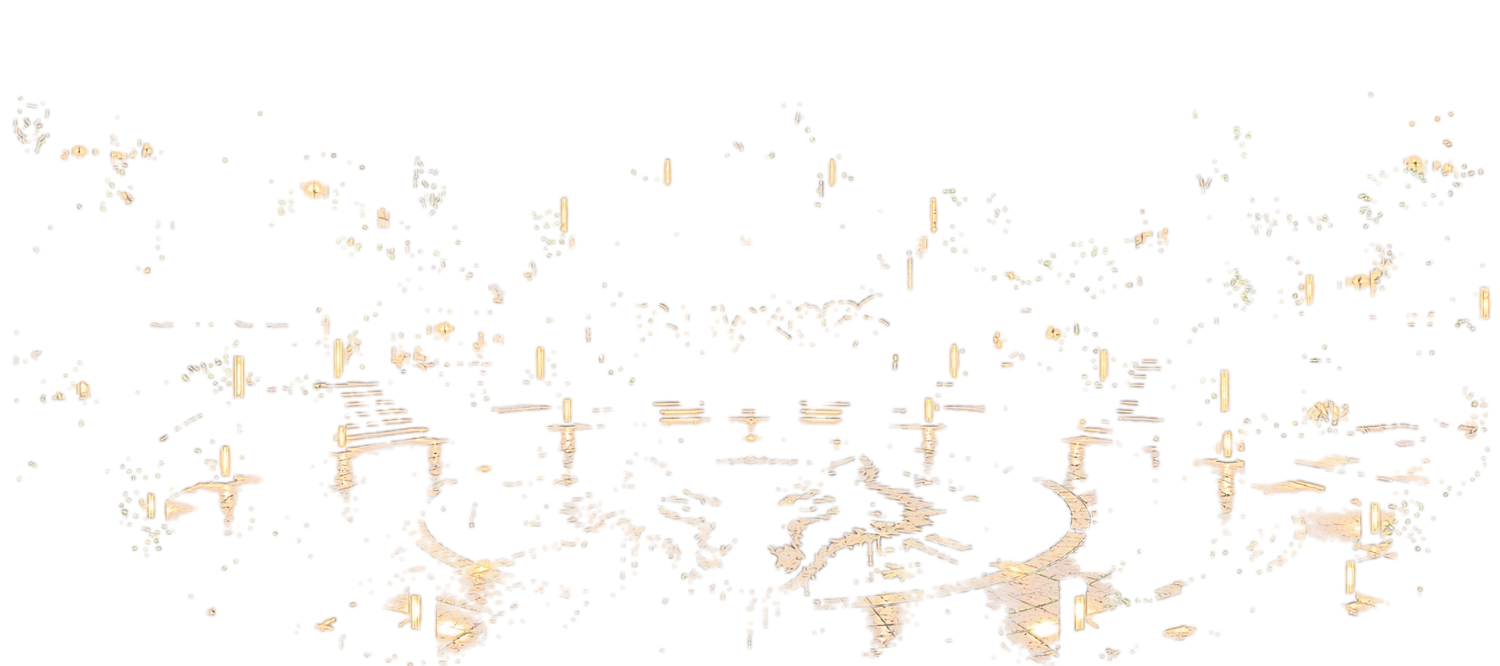
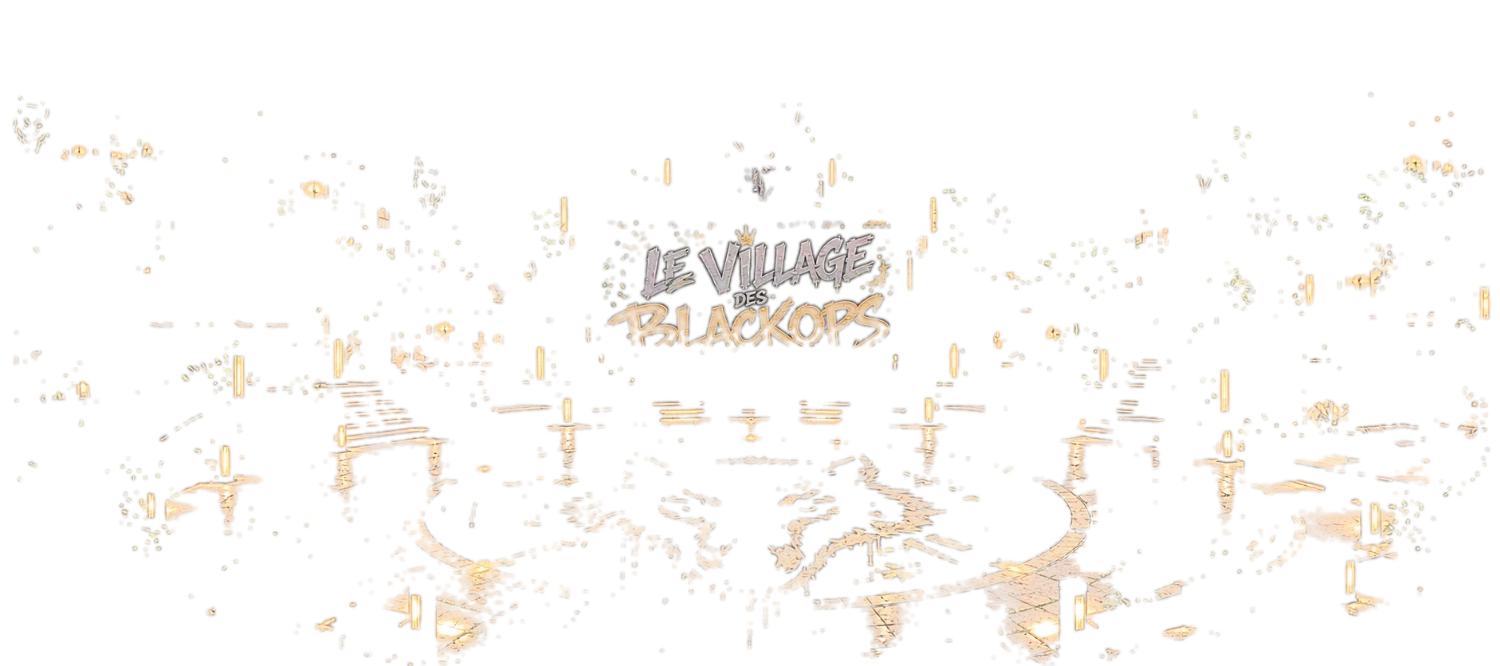
Nuit : l'enseigne « LE VILLAGE DES BLACKOPS » s'illumine (décor fourni et village dessiné), yeux du loup et lampes avec halo doré
Claude-Session: https://claude.ai/code/session_016QFmvqjMsiPwrgpkxjXLAF

Changed region(s): [[0.3987, 0.3303, 0.6133, 0.5405], [0.4907, 0.2402, 0.5213, 0.3003]]

diff --git a/public/style.css b/public/style.css
@@ -476,7 +476,7 @@ input[type='checkbox'] { width: 20px; height: 20px; accent-color: var(--gold-2);
 @keyframes heartUp { 0% { transform: translateY(0) scale(0.6); opacity: 0; } 15% { opacity: 1; } 100% { transform: translateY(-110vh) scale(1.2) rotate(20deg); opacity: 0; } }
 /* Décor fourni (photo / rendu déjà sombre) : nuit plus douce, lampes du décor bien visibles */
 .custom-decor .night { background: linear-gradient(180deg, #2b3670, #3b4c8f 60%, #33427e); }
-.custom-decor .lights { filter: brightness(1.25) saturate(1.1); }
+.custom-decor .lights { filter: brightness(1.3) saturate(1.15) drop-shadow(0 0 5px rgba(255, 196, 90, 0.9)) drop-shadow(0 0 14px rgba(255, 160, 60, 0.55)); }
 /* Rôles de la partie (composition, pour information) */
 .roles-chip { cursor: pointer; font: 900 14px var(--font-ui); }
 .roles-panel { position: absolute; right: 12px; top: 64px; z-index: 30; width: min(420px, calc(100vw - 24px)); max-height: 70vh; overflow-y: auto; display: none; background: var(--paper); border: 4px solid var(--ink); border-radius: 16px; box-shadow: 6px 6px 0 var(--ink); padding: 12px; pointer-events: auto; }

diff --git a/scripts/art/decor.py b/scripts/art/decor.py
@@ -7,9 +7,10 @@ Prépare un décor fourni (image avec ciel transparent) pour le plateau :
   - fichier de configuration (.json) : position des lumières et de la place.
 
 Usage (outil ponctuel, hors dépendances du jeu : pip install pillow) :
-  python3 scripts/art/decor.py <image> <nom> [--plaza cx,cy,rx,ry]
+  python3 scripts/art/decor.py <image> <nom> [--plaza cx,cy,rx,ry] [--glow x0,y0,x1,y1]...
 
-Coordonnées de --plaza en pixels de l'IMAGE SOURCE : centre et rayons du cercle
+--glow : zone (ex. une enseigne) dont les parties claires s'illuminent la nuit.
+Coordonnées de --plaza et --glow en pixels de l'IMAGE SOURCE : centre et rayons du cercle
 des joueurs (pieds). Le plateau mesure 1536×1024 ; le décor y est mis à l'échelle
 sur la hauteur et centré (les bords gauche/droit d'une image très large sont rognés).
 """
@@ -28,6 +29,7 @@ def main():
     plaza = None
     if '--plaza' in sys.argv:
         plaza = [float(v) for v in sys.argv[sys.argv.index('--plaza') + 1].split(',')]
+    glows = [[int(v) for v in sys.argv[i + 1].split(',')] for i, a in enumerate(sys.argv) if a == '--glow']
     im = Image.open(src).convert('RGBA')
     w, h = im.size
     s = H / h
@@ -47,6 +49,14 @@ def main():
             lum = (r + g + b) / 3
             if r > 200 and g > 150 and r - b > 55 and lum > 165:
                 mp[x, y] = min(255, int((lum - 150) * 3))
+    # Enseignes : leurs lettres claires s'illuminent (en plus des lampes).
+    for x0, y0, x1, y1 in glows:
+        for y in range(max(0, y0), min(h, y1)):
+            for x in range(max(0, x0), min(w, x1)):
+                r, g, b, a = px[x, y]
+                lum = (r + g + b) / 3
+                if a > 200 and lum > 120:
+                    mp[x, y] = max(mp[x, y], min(255, int((lum - 100) * 2.6)))
     mask = mask.filter(ImageFilter.MaxFilter(3)).filter(ImageFilter.GaussianBlur(1.2))
     lights = im.copy()
     lights.putalpha(mask)
@@ -88,6 +98,10 @@ def main():
                 continue
             r = max(45, min(150, size * s * 1.6))
             spots.append({'x': round(sx / W, 4), 'y': round(sy / H, 4), 'r': round(r / W, 4), 'kind': 'lantern'})
+
+    for x0, y0, x1, y1 in glows:
+        cx, cy = (x0 + x1) / 2 * s + offx, (y0 + y1) / 2 * s
+        spots.append({'x': round(cx / W, 4), 'y': round(cy / H, 4), 'r': round((x1 - x0) * s * 0.75 / W, 4), 'kind': 'sign'})
 
     if plaza:
         pcx, pcy, prx, pry = plaza
